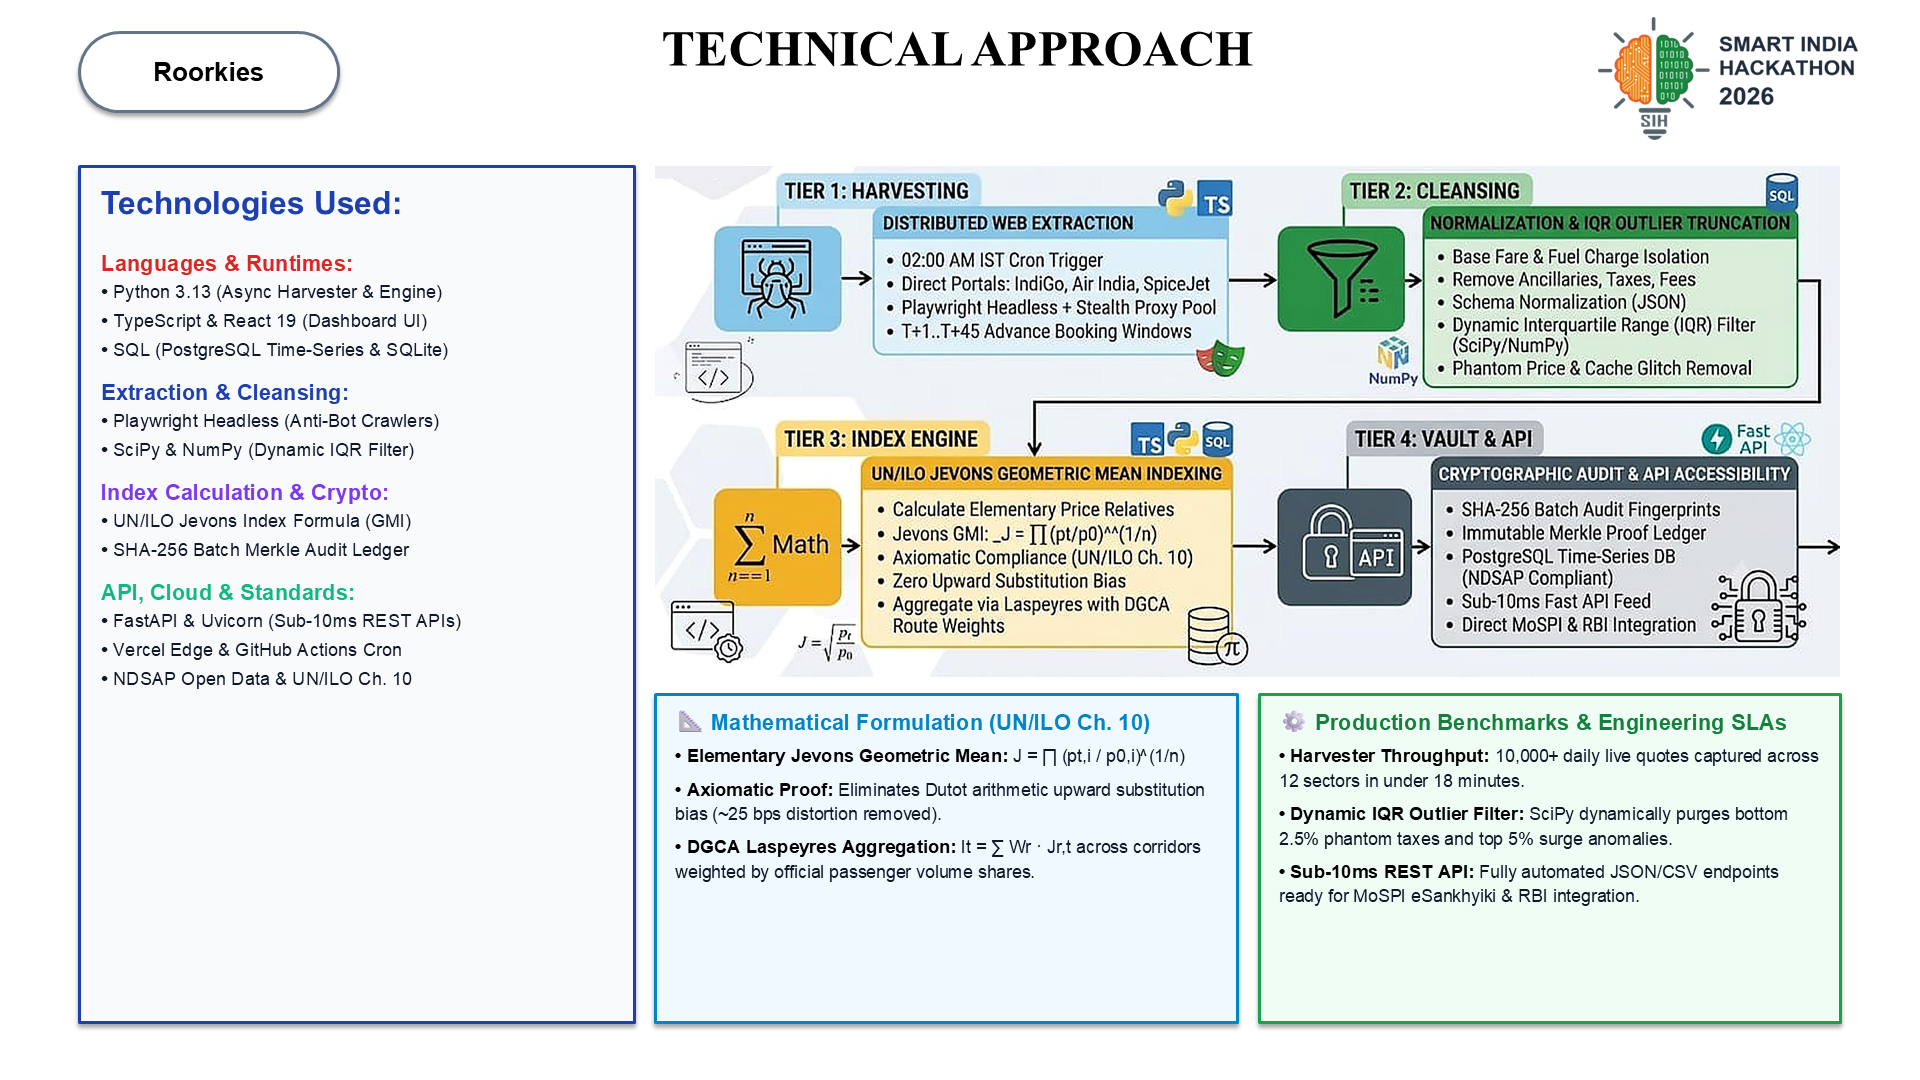
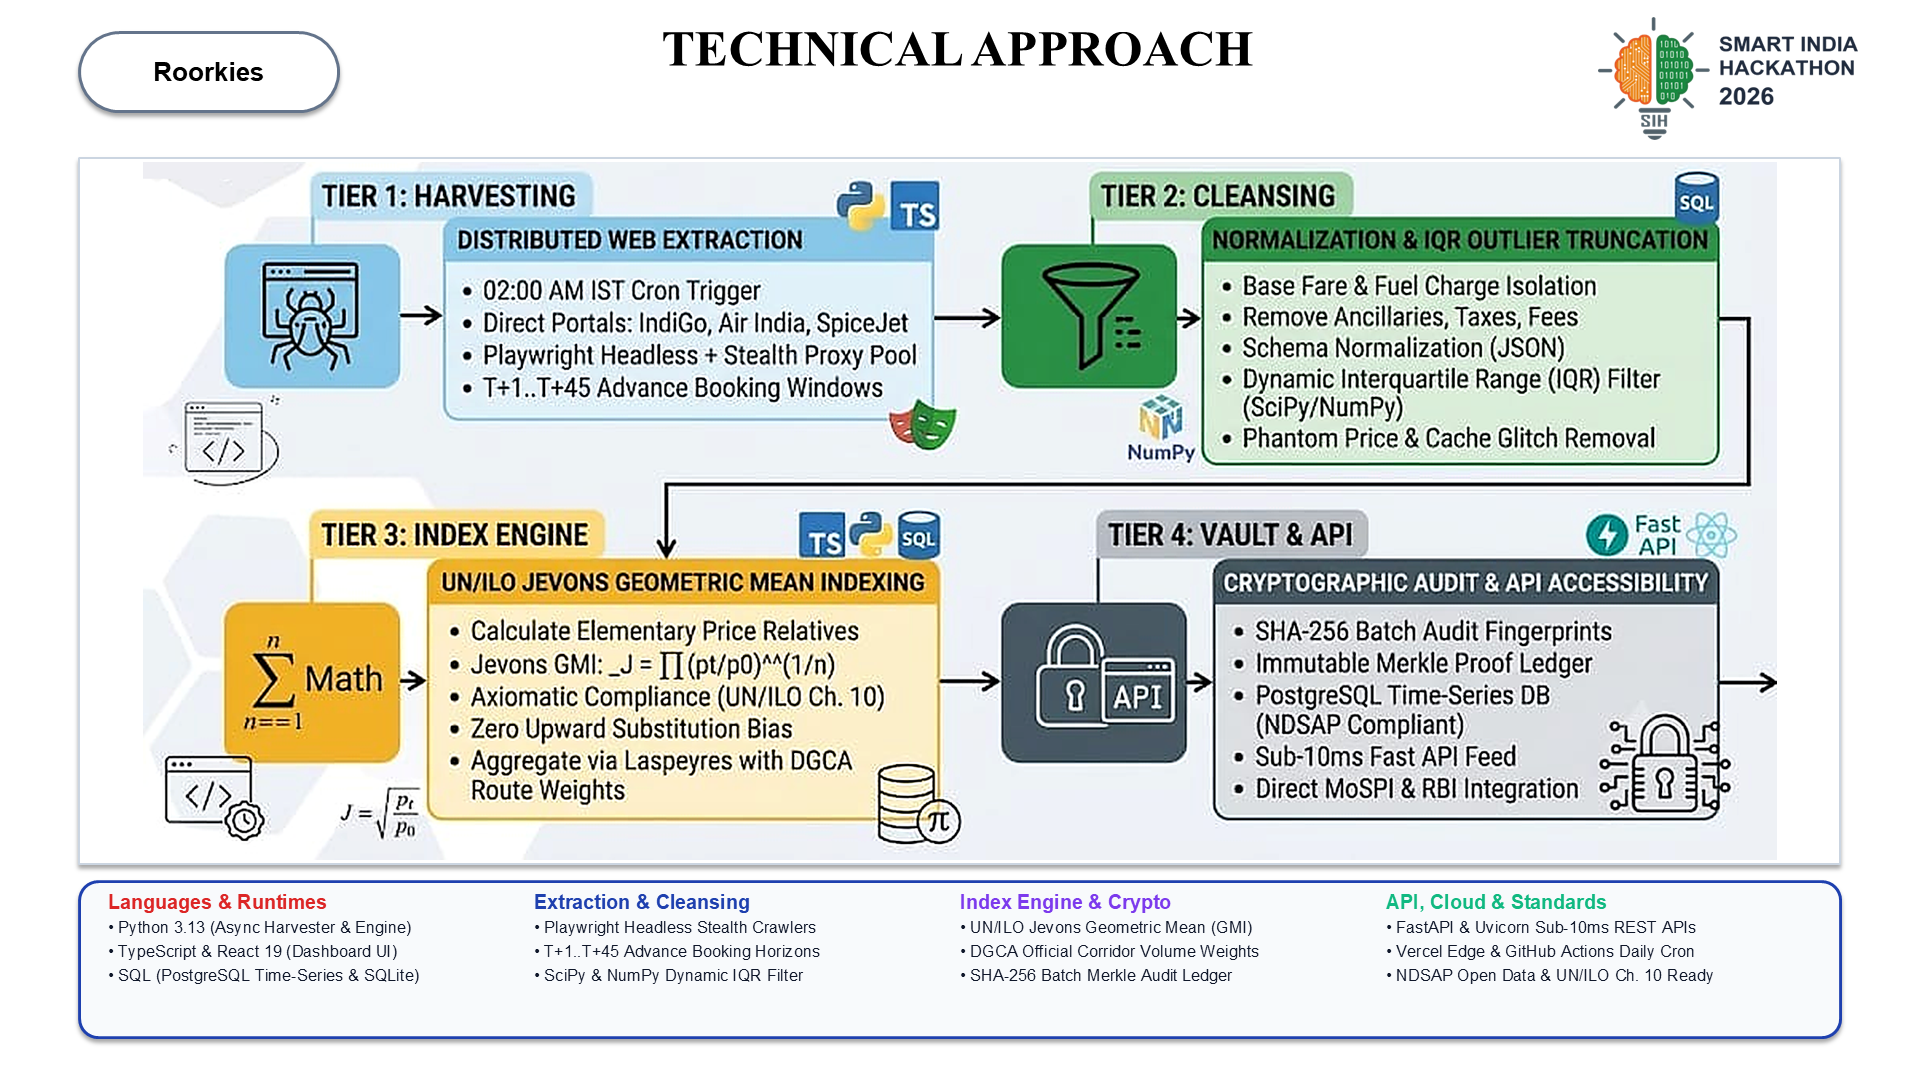
feat(presentation): enlarge architecture diagram across full slide and remove redundant bottom blocks on Slide 3

diff --git a/scratch/generate_final_perfect_sih_slides.py b/scratch/generate_final_perfect_sih_slides.py
@@ -317,190 +317,67 @@ def create_final_presentation(output_path):
 
     add_template_top_bar(s3, "TECHNICAL APPROACH", title_font_size=25, is_serif=True)
 
-    col_y = Inches(1.15)
-    col_h = Inches(5.95)
+    # Main Architecture Diagram Card: Spans width to maximize diagram size and text legibility
+    card_x = Inches(0.55)
+    card_w = Inches(12.23)
+    card_y = Inches(1.10)
+    card_h = Inches(4.90)
 
-    # 1. Left Column: Categorized Technology Stack (Width: 3.85 inches)
-    col_w_l = Inches(3.85)
-    box_l = s3.shapes.add_shape(MSO_SHAPE.RECTANGLE, Inches(0.55), col_y, col_w_l, col_h)
-    box_l.fill.solid()
-    box_l.fill.fore_color.rgb = RGBColor(248, 250, 252) # soft slate-50
-    box_l.line.color.rgb = C_BLUE_TEMPLATE
-    box_l.line.width = Pt(1.5)
+    card = s3.shapes.add_shape(MSO_SHAPE.RECTANGLE, card_x, card_y, card_w, card_h)
+    card.fill.solid()
+    card.fill.fore_color.rgb = C_WHITE
+    card.line.color.rgb = RGBColor(203, 213, 225) # soft slate-300 border
+    card.line.width = Pt(1.2)
 
-    tb_l = s3.shapes.add_textbox(Inches(0.70), col_y + Inches(0.12), col_w_l - Inches(0.30), col_h - Inches(0.24))
-    tf_l = tb_l.text_frame
-    tf_l.word_wrap = True
-    tf_l.margin_left = tf_l.margin_top = tf_l.margin_right = tf_l.margin_bottom = 0
-
-    p_lh = tf_l.paragraphs[0]
-    p_lh.text = "Technologies Used:"
-    p_lh.font.name = "Arial"
-    p_lh.font.size = Pt(16)
-    p_lh.font.bold = True
-    p_lh.font.color.rgb = C_BLUE_TEMPLATE
-    p_lh.space_after = Pt(8)
-
-    tech_sections = [
-        (
-            "Languages & Runtimes:",
-            RGBColor(220, 38, 38),
-            [
-                "Python 3.13 (Async Harvester & Engine)",
-                "TypeScript & React 19 (Dashboard UI)",
-                "SQL (PostgreSQL Time-Series & SQLite)"
-            ]
-        ),
-        (
-            "Extraction & Cleansing:",
-            RGBColor(30, 64, 175),
-            [
-                "Playwright Headless (Anti-Bot Crawlers)",
-                "SciPy & NumPy (Dynamic IQR Filter)"
-            ]
-        ),
-        (
-            "Index Calculation & Crypto:",
-            RGBColor(124, 58, 237),
-            [
-                "UN/ILO Jevons Index Formula (GMI)",
-                "SHA-256 Batch Merkle Audit Ledger"
-            ]
-        ),
-        (
-            "API, Cloud & Standards:",
-            RGBColor(16, 185, 129),
-            [
-                "FastAPI & Uvicorn (Sub-10ms REST APIs)",
-                "Vercel Edge & GitHub Actions Cron",
-                "NDSAP Open Data & UN/ILO Ch. 10"
-            ]
-        )
-    ]
-
-    for sec_title, sec_color, sec_items in tech_sections:
-        p_sec = tf_l.add_paragraph()
-        p_sec.space_before = Pt(6)
-        p_sec.space_after = Pt(2)
-        r_sec = p_sec.add_run()
-        r_sec.text = sec_title
-        r_sec.font.name = "Arial"
-        r_sec.font.size = Pt(11)
-        r_sec.font.bold = True
-        r_sec.font.color.rgb = sec_color
-
-        for item in sec_items:
-            p_item = tf_l.add_paragraph()
-            p_item.space_after = Pt(2.5)
-            r_dot = p_item.add_run()
-            r_dot.text = "• "
-            r_dot.font.name = "Arial"
-            r_dot.font.size = Pt(9.5)
-            r_dot.font.bold = True
-            r_dot.font.color.rgb = C_TEXT_DARK
-
-            r_txt = p_item.add_run()
-            r_txt.text = item
-            r_txt.font.name = "Arial"
-            r_txt.font.size = Pt(9.2)
-            r_txt.font.bold = False
-            r_txt.font.color.rgb = C_TEXT_DARK
-
-    # 2. Right Section: Architecture Flowchart (Cropped top 14% to remove duplicate SIH logo/title)
-    flow_x = Inches(4.55)
-    flow_w = Inches(8.23)
-    flow_h = Inches(3.55)
+    # Diagram centered inside card at maximum crisp aspect ratio
+    diag_w = Inches(11.35)
+    diag_h = Inches(11.35 / 2.3432) # ~4.84 inches
+    diag_x = card_x + (card_w - diag_w) / 2
+    diag_y = card_y + (card_h - diag_h) / 2
 
     if os.path.exists(arch_img):
-        s3.shapes.add_picture(arch_img, flow_x, col_y, flow_w, flow_h)
+        s3.shapes.add_picture(arch_img, diag_x, diag_y, diag_w, diag_h)
 
-    # 3. Underneath Flowchart: Non-Repetitive Engineering Deep-Dives
-    sub_y = col_y + flow_h + Inches(0.12)
-    sub_h = col_h - flow_h - Inches(0.12) # ~2.28 inches
-    card_w = Inches(4.04)
+    # Bottom Ribbon: Clean 4-Pillar Technologies Architecture (matching card_x and card_w)
+    bar_y = Inches(6.12)
+    bar_h = Inches(1.08)
 
-    # --- Card A: Mathematical Formulation & Axiomatic Rigor ---
-    card_a = s3.shapes.add_shape(MSO_SHAPE.RECTANGLE, flow_x, sub_y, card_w, sub_h)
-    card_a.fill.solid()
-    card_a.fill.fore_color.rgb = RGBColor(240, 249, 255) # soft sky-50
-    card_a.line.color.rgb = RGBColor(2, 132, 199)
-    card_a.line.width = Pt(1.4)
+    bar = s3.shapes.add_shape(MSO_SHAPE.ROUNDED_RECTANGLE, card_x, bar_y, card_w, bar_h)
+    bar.adjustments[0] = 0.12
+    bar.fill.solid()
+    bar.fill.fore_color.rgb = RGBColor(248, 250, 252)
+    bar.line.color.rgb = C_BLUE_TEMPLATE
+    bar.line.width = Pt(1.5)
 
-    tb_ca = s3.shapes.add_textbox(flow_x + Inches(0.14), sub_y + Inches(0.10), card_w - Inches(0.28), sub_h - Inches(0.20))
-    tf_ca = tb_ca.text_frame
-    tf_ca.word_wrap = True
-    tf_ca.margin_left = tf_ca.margin_top = tf_ca.margin_right = tf_ca.margin_bottom = 0
-
-    p_cah = tf_ca.paragraphs[0]
-    p_cah.text = "📐 Mathematical Formulation (UN/ILO Ch. 10)"
-    p_cah.font.name = "Arial"
-    p_cah.font.size = Pt(11)
-    p_cah.font.bold = True
-    p_cah.font.color.rgb = RGBColor(2, 132, 199)
-    p_cah.space_after = Pt(4)
-
-    math_pts = [
-        ("Elementary Jevons Geometric Mean:", " J = ∏ (pt,i / p0,i)^(1/n)"),
-        ("Axiomatic Proof:", " Eliminates Dutot arithmetic upward substitution bias (~25 bps distortion removed)."),
-        ("DGCA Laspeyres Aggregation:", " It = ∑ Wr · Jr,t across corridors weighted by official passenger volume shares.")
+    cols_data = [
+        ('Languages & Runtimes', RGBColor(220, 38, 38), ['Python 3.13 (Async Harvester & Engine)', 'TypeScript & React 19 (Dashboard UI)', 'SQL (PostgreSQL Time-Series & SQLite)']),
+        ('Extraction & Cleansing', RGBColor(30, 64, 175), ['Playwright Headless Stealth Crawlers', 'T+1..T+45 Advance Booking Horizons', 'SciPy & NumPy Dynamic IQR Filter']),
+        ('Index Engine & Crypto', RGBColor(124, 58, 237), ['UN/ILO Jevons Geometric Mean (GMI)', 'DGCA Official Corridor Volume Weights', 'SHA-256 Batch Merkle Audit Ledger']),
+        ('API, Cloud & Standards', RGBColor(16, 185, 129), ['FastAPI & Uvicorn Sub-10ms REST APIs', 'Vercel Edge & GitHub Actions Daily Cron', 'NDSAP Open Data & UN/ILO Ch. 10 Ready'])
     ]
-    for m_head, m_desc in math_pts:
-        p = tf_ca.add_paragraph()
-        p.space_after = Pt(3.5)
-        p.line_spacing = 1.15
-        r1 = p.add_run()
-        r1.text = "• " + m_head
-        r1.font.name = "Arial"
-        r1.font.size = Pt(9.2)
-        r1.font.bold = True
-        r1.font.color.rgb = C_BLACK
-        r2 = p.add_run()
-        r2.text = m_desc
-        r2.font.name = "Arial"
-        r2.font.size = Pt(8.8)
-        r2.font.color.rgb = C_TEXT_DARK
 
-    # --- Card B: System Benchmarks & Engineering SLAs ---
-    card_b_x = flow_x + card_w + Inches(0.15)
-    card_b = s3.shapes.add_shape(MSO_SHAPE.RECTANGLE, card_b_x, sub_y, card_w, sub_h)
-    card_b.fill.solid()
-    card_b.fill.fore_color.rgb = RGBColor(240, 253, 244) # soft emerald-50
-    card_b.line.color.rgb = RGBColor(22, 163, 74)
-    card_b.line.width = Pt(1.4)
-
-    tb_cb = s3.shapes.add_textbox(card_b_x + Inches(0.14), sub_y + Inches(0.10), card_w - Inches(0.28), sub_h - Inches(0.20))
-    tf_cb = tb_cb.text_frame
-    tf_cb.word_wrap = True
-    tf_cb.margin_left = tf_cb.margin_top = tf_cb.margin_right = tf_cb.margin_bottom = 0
-
-    p_cbh = tf_cb.paragraphs[0]
-    p_cbh.text = "⚙ Production Benchmarks & Engineering SLAs"
-    p_cbh.font.name = "Arial"
-    p_cbh.font.size = Pt(11)
-    p_cbh.font.bold = True
-    p_cbh.font.color.rgb = RGBColor(21, 128, 61)
-    p_cbh.space_after = Pt(4)
-
-    eng_pts = [
-        ("Harvester Throughput:", " 10,000+ daily live quotes captured across 12 sectors in under 18 minutes."),
-        ("Dynamic IQR Outlier Filter:", " SciPy dynamically purges bottom 2.5% phantom taxes and top 5% surge anomalies."),
-        ("Sub-10ms REST API:", " Fully automated JSON/CSV endpoints ready for MoSPI eSankhyiki & RBI integration.")
-    ]
-    for e_head, e_desc in eng_pts:
-        p = tf_cb.add_paragraph()
-        p.space_after = Pt(3.5)
-        p.line_spacing = 1.15
-        r1 = p.add_run()
-        r1.text = "• " + e_head
-        r1.font.name = "Arial"
-        r1.font.size = Pt(9.2)
-        r1.font.bold = True
-        r1.font.color.rgb = C_BLACK
-        r2 = p.add_run()
-        r2.text = e_desc
-        r2.font.name = "Arial"
-        r2.font.size = Pt(8.8)
-        r2.font.color.rgb = C_TEXT_DARK
+    col_w = (card_w - Inches(0.40)) / 4
+    for i, (c_title, c_color, c_items) in enumerate(cols_data):
+        cx = card_x + Inches(0.20) + i * col_w
+        tb = s3.shapes.add_textbox(cx, bar_y + Inches(0.06), col_w - Inches(0.10), bar_h - Inches(0.12))
+        tf = tb.text_frame
+        tf.word_wrap = True
+        tf.margin_left = tf.margin_top = tf.margin_right = tf.margin_bottom = 0
+        p0 = tf.paragraphs[0]
+        p0.text = c_title
+        p0.font.name = 'Arial'
+        p0.font.size = Pt(9.8)
+        p0.font.bold = True
+        p0.font.color.rgb = c_color
+        p0.space_after = Pt(2)
+        for it in c_items:
+            p = tf.add_paragraph()
+            p.space_after = Pt(1.5)
+            r = p.add_run()
+            r.text = '• ' + it
+            r.font.name = 'Arial'
+            r.font.size = Pt(8.2)
+            r.font.color.rgb = C_TEXT_DARK
 
     add_template_footer(s3, 3)
 
